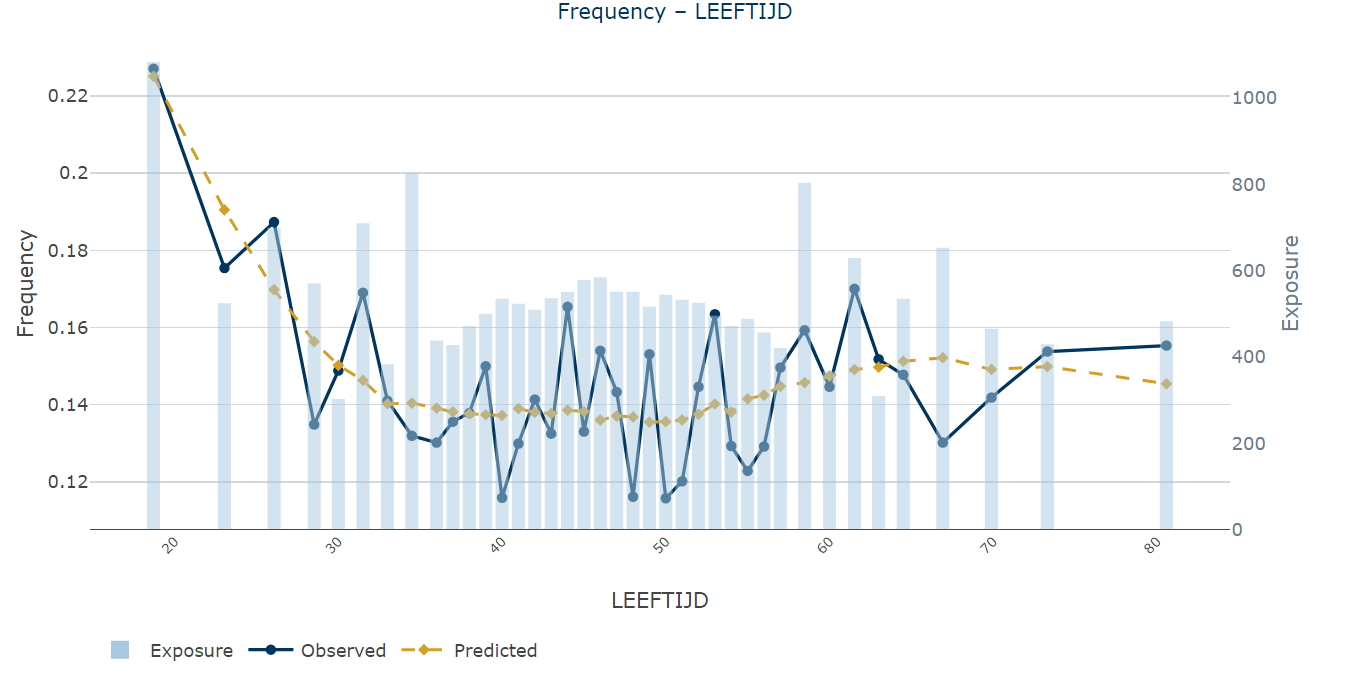
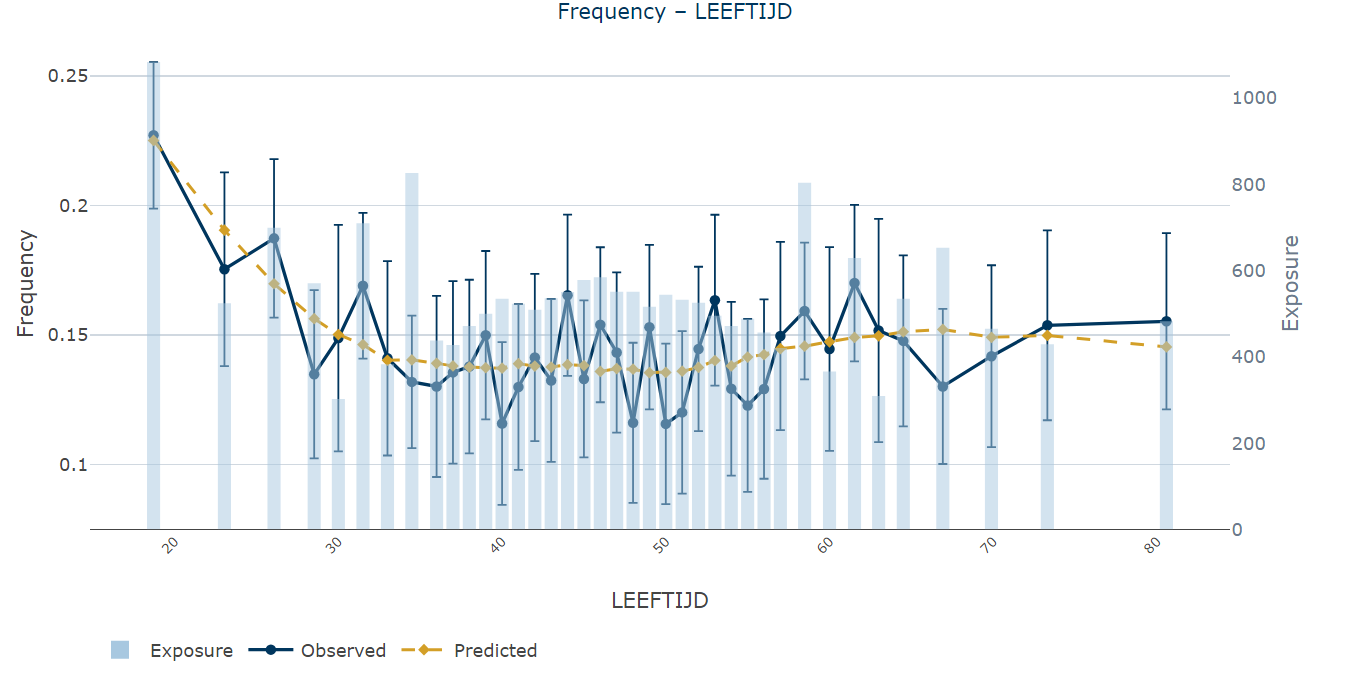
Put error bars on the observed points, and stop joining residual bins
plot_glm_predictor drew two lines and left the reader to judge whether a
gap between them meant anything. On a 40-bin age plot the observed line
looks alarmingly jagged; with the bars drawn it is obvious that nearly
every bin spans the predicted line and the jaggedness is noise. That is the
whole question the plot exists to answer, and it was being left to the eye.

The interval is on the observed point only. The predicted line is the
model, and its parameter uncertainty is a different and much smaller
quantity. The standard error comes from the fitted family's own variance
function rather than an assumed Poisson, scaled by the Pearson dispersion
where the family estimates one:

  counts          se = sqrt(phi * sum(V(mu))) / sum(exposure)
  weighted means  se = sqrt(phi * sum(w V(mu))) / sum(w)

with phi held at 1 for Poisson and binomial, since that is the assumption
under examination. Both forms are checked against a hand computation.
Measured coverage on a correctly specified Poisson is 0.96 for a binned
continuous predictor and 0.98 for a categorical one outside the model.

One case needed writing down rather than measuring away. On a categorical
term that is IN the model under a canonical link, coverage came out at
exactly 1.000 - not because the interval is too wide but because the score
equations force observed to equal predicted at every level, so there is no
gap for the bar to miss. The bar length still says how much evidence the
[…]

diff --git a/README.md b/README.md
@@ -348,7 +348,7 @@ plot_glm_predictor(model, predictor, n_bins = 150,
                    color = ta_year_palette(1), color_pred = ta_gold,
                    title = NULL, ylab = NULL, xlab = NULL,
                    metric_fmt = 4, bin_type = c("quantile", "width"),
-                   y_range = NULL)
+                   ci = TRUE, ci_level = 0.95, y_range = NULL)
 ```
 
 Mode is detected automatically:
@@ -361,6 +361,32 @@ Mode is detected automatically:
   claim-count-weighted for severity).
 - `weight_var` overrides the weight column explicitly (must exist in
   `model$data`; an unknown name is an error, not silently ignored).
+
+**Error bars.** The observed points carry a 95% interval by default, which
+turns the plot from "these two lines differ" into "these two lines differ
+by more than the noise here". A bin whose bar comfortably spans the
+predicted line is not evidence of anything, however far apart the two
+markers look, and a bar that is long simply says the bin is thin. Switch
+them off with `ci = FALSE` or widen them with `ci_level`.
+
+The interval is on the **observed** point only. The predicted line is the
+model; its parameter uncertainty is a different and usually much smaller
+quantity. The standard error comes from the fitted family's own variance
+function, scaled by the Pearson dispersion where the family estimates one:
+counts use `sqrt(φ·Σ V(μ)) / Σexposure`, weighted means the usual
+`sqrt(φ·Σ w·V(μ)) / Σw`. Measured coverage on a correctly specified
+Poisson is 0.96 for a binned continuous predictor and 0.98 for a
+categorical one outside the model.
+
+One case where the bars cannot be read as a test: for a **categorical term
+that is in the model** under a canonical link, observed equals predicted at
+every level by construction, so the bar always contains the predicted point
+— coverage is 1 by identity, not by fit. The bar length still tells you how
+much evidence the level carries, but the absence of a gap there is
+arithmetic. That is the blind spot
+[`detect_interactions()`](#detect_interactions) exists to cover; see [why a
+one-way check cannot see an
+interaction](#why-a-one-way-check-cannot-see-an-interaction).
 
 **Binning.** A numeric predictor with at most `n_bins` distinct values is
 not binned at all: every value gets its own point, on its exact position.
@@ -495,6 +521,11 @@ roughly 95% of the bin means should fall inside the band; a systematic
 pattern outside it (e.g. a curve over a predictor) signals missed structure,
 a candidate spline, banding or interaction. Categorical predictors get error
 bars per level instead of a ribbon.
+
+The bin means are drawn as **points, not joined into a line**. They are
+independent draws, and a connecting line invites the eye to trace a trend
+through what is mostly noise; the band is what says whether a point means
+anything.
 
 **Returns** a plotly object.
 
